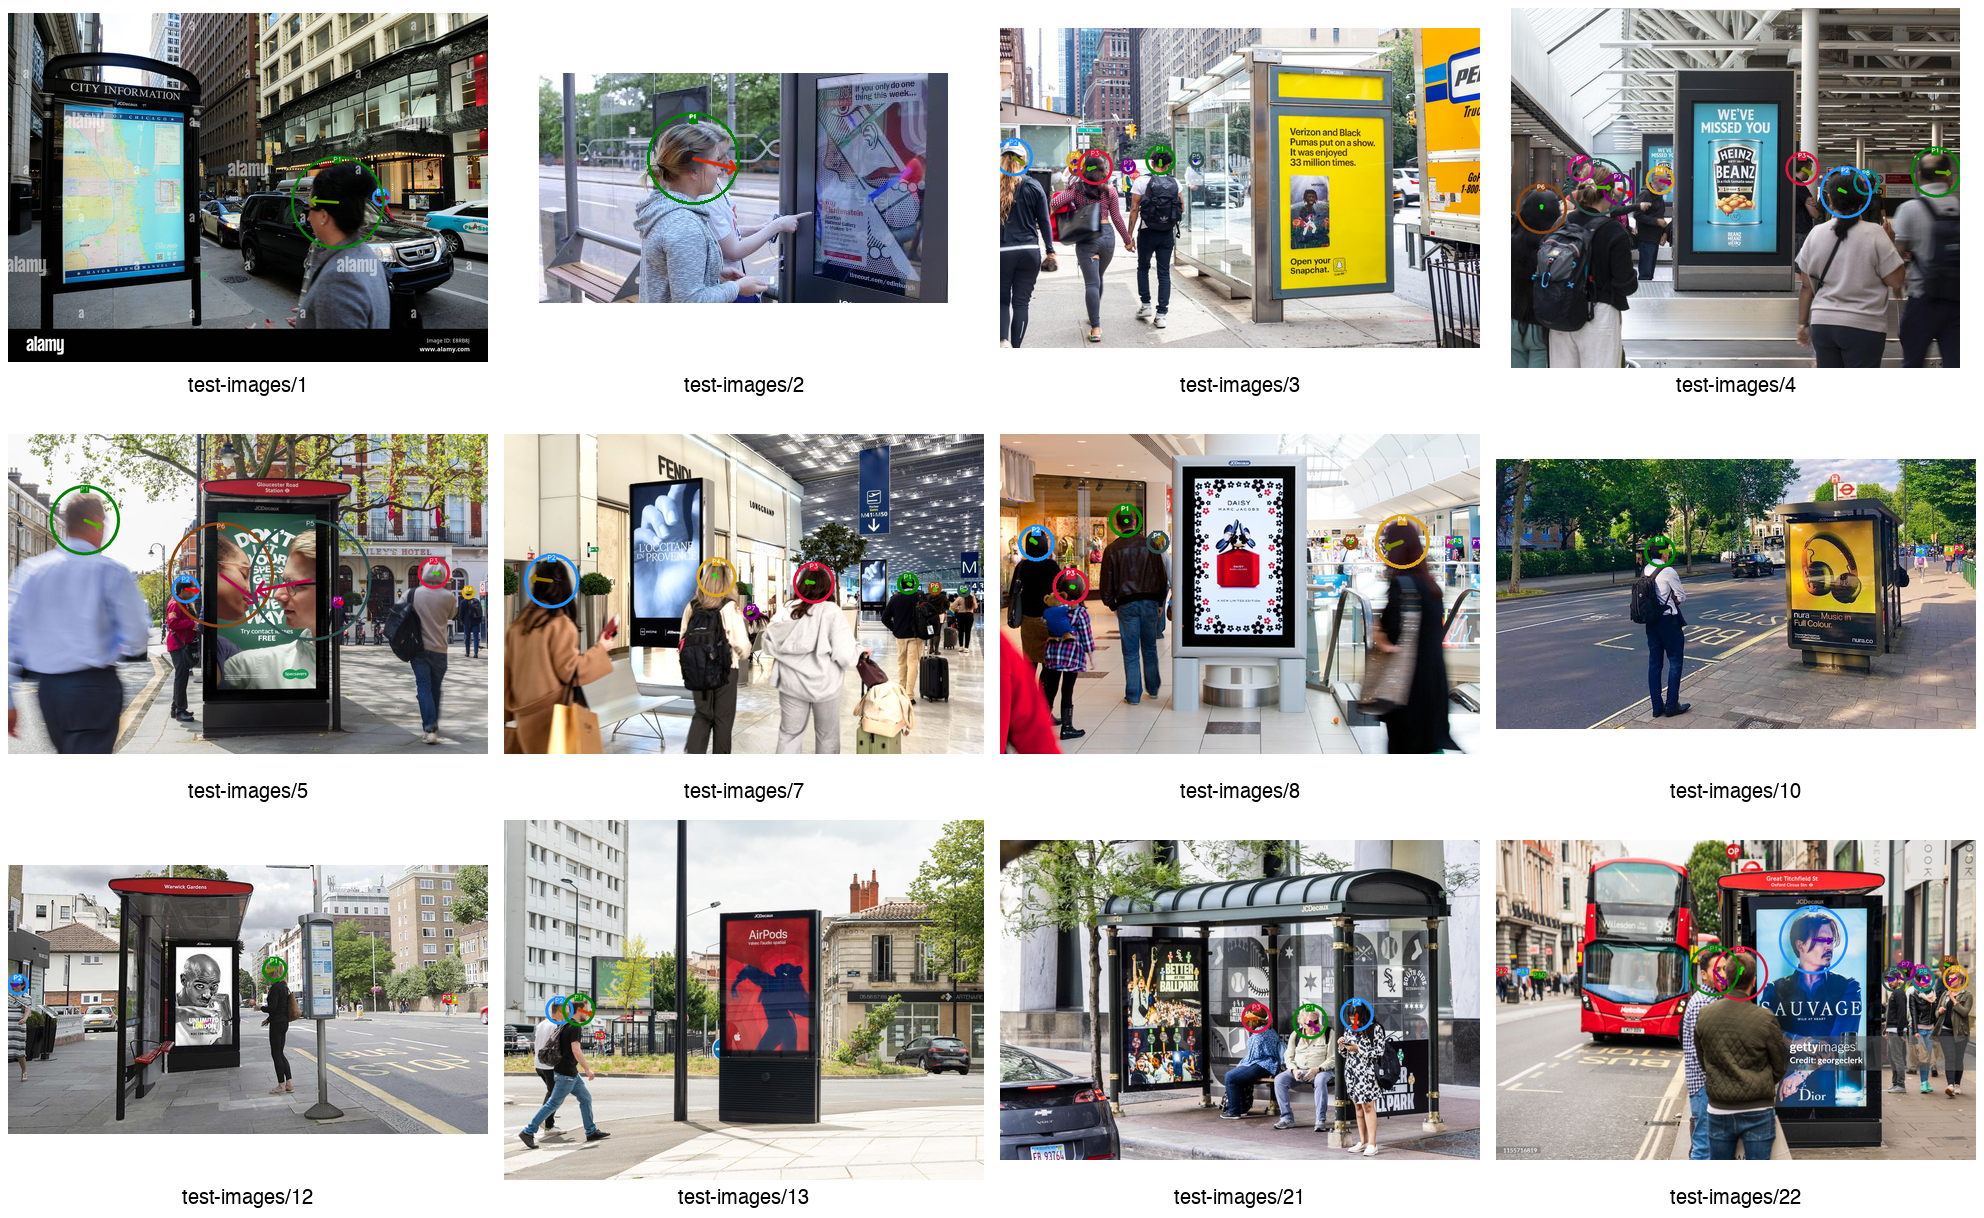
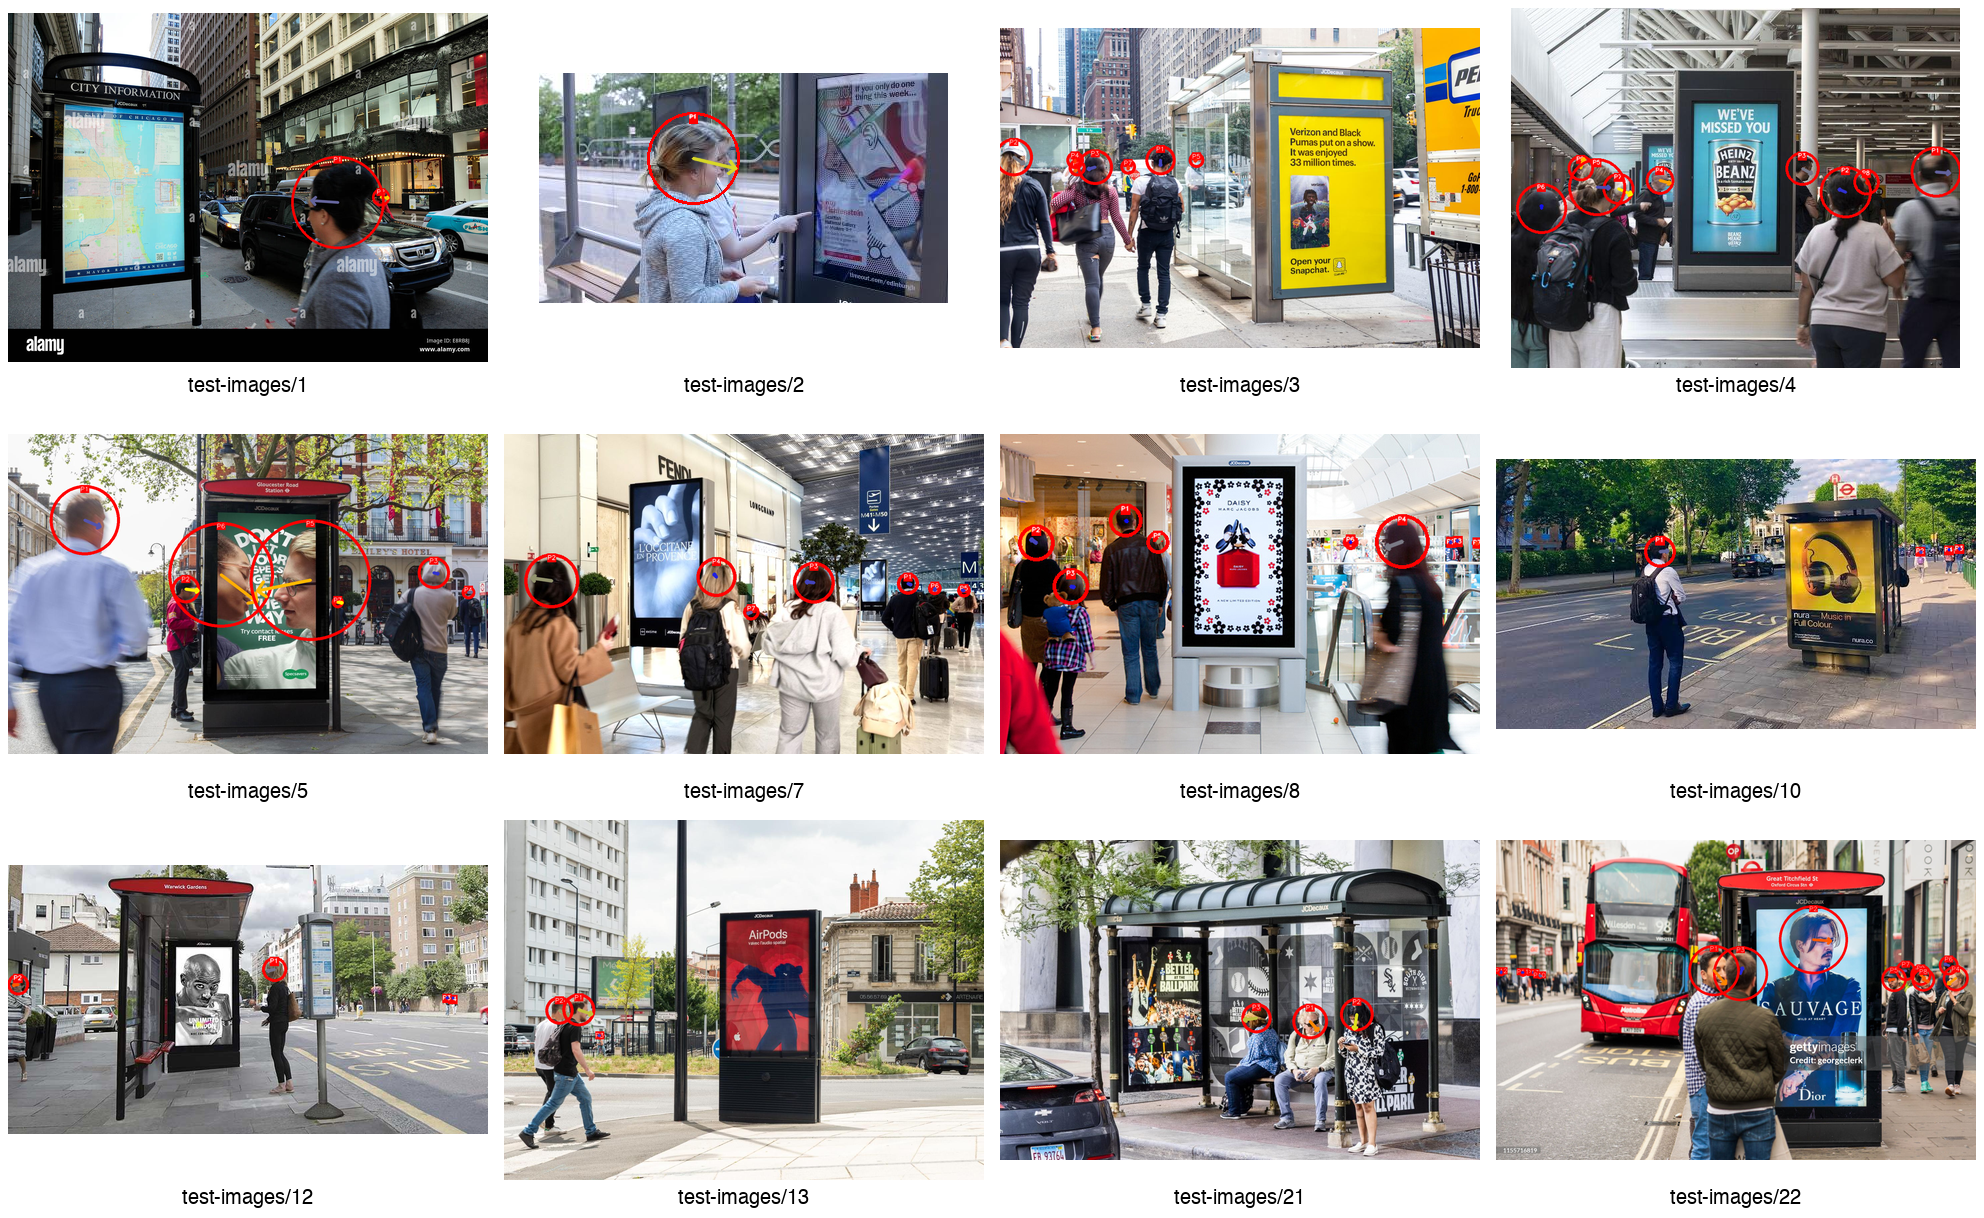
adjust the color of the identified person head area

diff --git a/demo.py b/demo.py
@@ -213,7 +213,7 @@ def draw_gaze(
     head_center = np.array([(xmin + xmax) // 2, (ymin + ymax) // 2])
     head_radius = max(xmax - xmin, ymax - ymin) // 2
     head_radius = int(head_radius * 1.2)  # enlarge the head circle
-    color = colors[head_pid % len(colors)]
+    color = (255, 0, 0)  # red
     cv2.circle(image, head_center, head_radius + 1, color, thickness)  # head circle
 
     # Draw header

diff --git a/README.md b/README.md
@@ -46,3 +46,9 @@ conda activate gazeCVPR
 
 3. Download model for head detection:
    `bash setup.sh`
+
+4. run the inference on one single image:
+   `python demo.py --input-filename data/pexels-jopwell-2422290.jpg --output-dir output/ --modality image`
+
+5. run the inference on the folder `test-images`
+   `python run_test.py`
